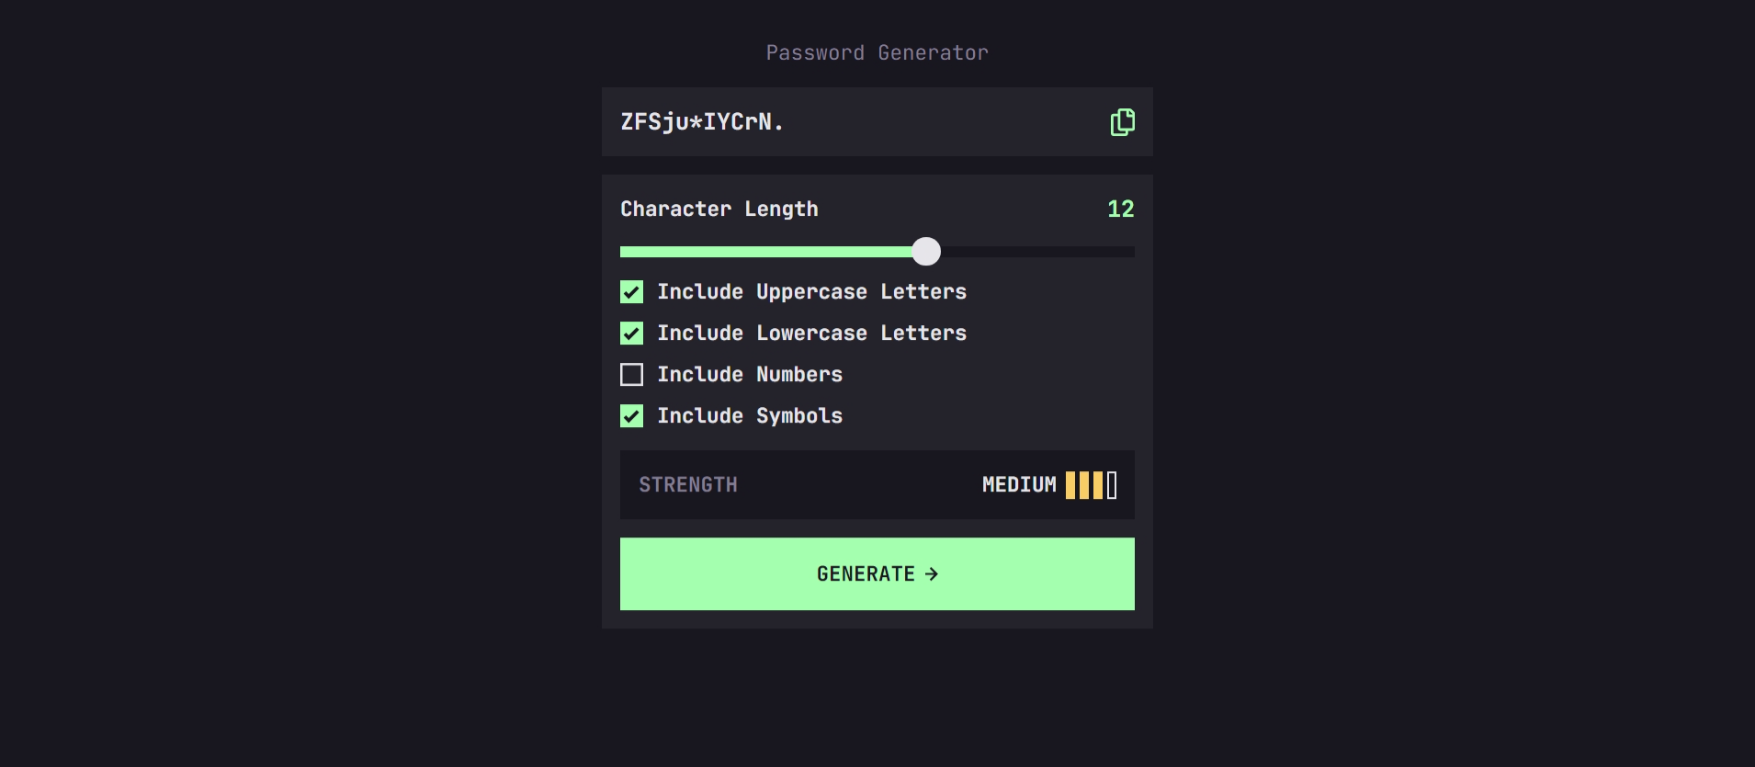
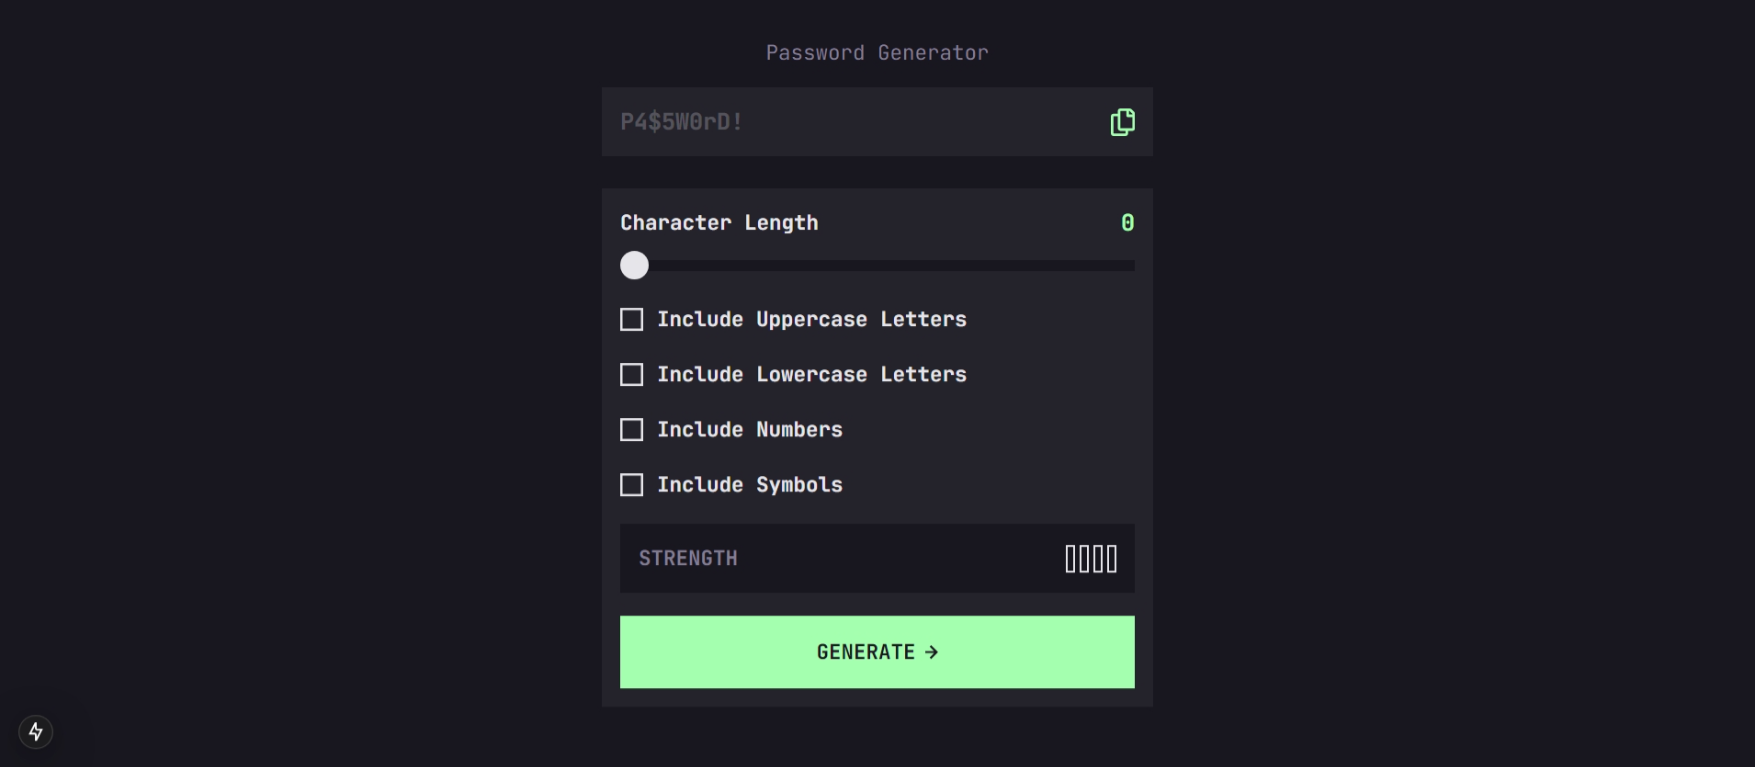
refactor: update preview image refactor: style changes chore: add sr-only btn text

diff --git a/app/page.tsx b/app/page.tsx
@@ -110,6 +110,7 @@ export default function Home() {
           readOnly
         />
         <button type="button" className="flex items-center gap-2 text-neonGreen hover:text-lightGray flex-0" onClick={copyToClipboard}>
+          <span className="sr-only">Copy to clipboard</span>
           {copied && (
             <span className="uppercase">Copied!</span>
           )}
@@ -119,7 +120,7 @@ export default function Home() {
         </button>
       </div>
 
-      <div className="p-4 mt-4 text-lg font-bold bg-darkGray">
+      <div className="p-4 text-lg font-bold mt-7 bg-darkGray">
         <h2 className="flex justify-between">
           <span>Character Length</span>
           <span className="text-xl font-bold text-neonGreen">{charLength}</span>
@@ -146,7 +147,7 @@ export default function Home() {
           { label: "Include Numbers", state: includeNumbers, setState: setIncludeNumbers },
           { label: "Include Symbols", state: includeSymbols, setState: setIncludeSymbols }
         ].map((option, index) => (
-          <div className="mt-2" key={index}>
+          <div className="mt-5" key={index}>
             <input
               type="checkbox"
               checked={option.state}
@@ -171,7 +172,7 @@ export default function Home() {
         ))}
 
         {/* Strength Gauge */}
-        <div className="flex justify-between p-4 mt-4 uppercase bg-deepBlack">
+        <div className="flex justify-between p-4 mt-5 uppercase bg-deepBlack">
           <span className="text-mutedPurple">Strength</span>
           <div className="flex items-center gap-2">
             <span className="text-lightGray">{strength.label}</span>
@@ -187,7 +188,7 @@ export default function Home() {
         </div>
 
         {/* Generate Button */}
-        <button type="button" className="flex items-center justify-center w-full gap-2 py-4 mt-4 text-lg font-bold uppercase border-2 text-deepBlack bg-neonGreen border-neonGreen hover:bg-transparent hover:text-neonGreen" onClick={generatePassword}>
+        <button type="button" className="flex items-center justify-center w-full gap-2 py-4 mt-5 text-lg font-bold uppercase border-2 text-deepBlack bg-neonGreen border-neonGreen hover:bg-transparent hover:text-neonGreen" onClick={generatePassword}>
           Generate
           <svg width="12" height="12" viewBox="0 0 12 12" fill="none" xmlns="http://www.w3.org/2000/svg">
             <path d="M5.10553 12L11.1055 6.00002L5.10553 0L3.84051 1.26501L7.681 5.10547L6.10352e-05 5.10547V6.8946L7.681 6.8946L3.84051 10.735L5.10553 12Z" fill="currentColor" />
